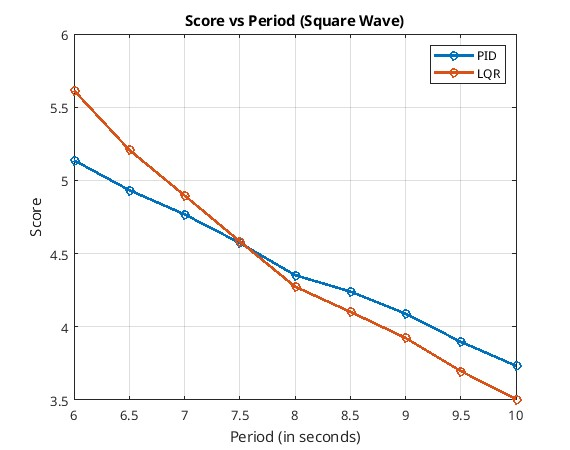
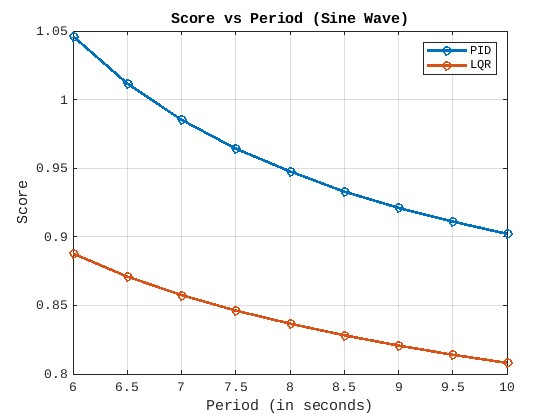
On branch svps-expts  Your branch is up to date with 'origin/svps-expts'.
Changes to be committed:
	modified:   scoreVsPeriod.m
	modified:   scoreVsPeriod_sine.jpg

diff --git a/plot-gen/scoreVsPeriod.m b/plot-gen/scoreVsPeriod.m
@@ -24,7 +24,7 @@ legend('PID', 'LQR');
 % Add labels and title
 xlabel('Period (in seconds)');
 ylabel('Score');
-title('Score vs Period (Square Wave)');
+title('Score vs Period (Sine Wave)');
 grid on;
 
 % Create the plot
